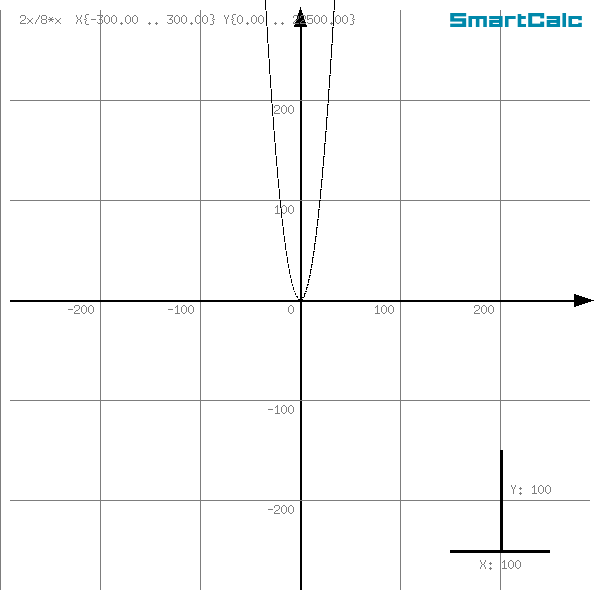
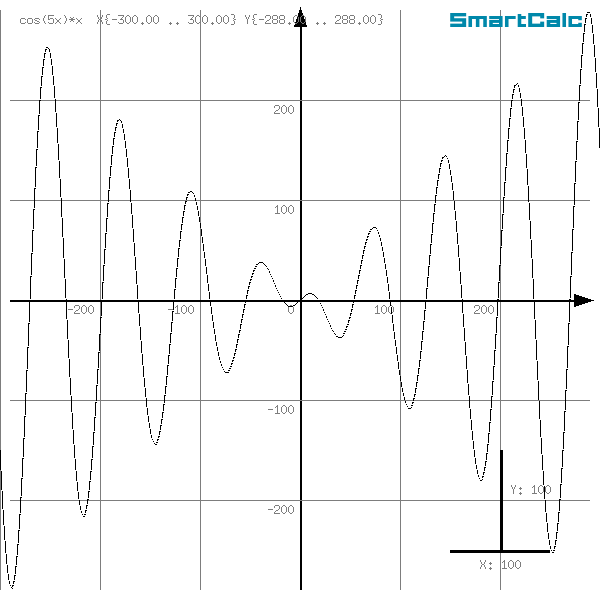
finish fix

diff --git a/src/internal/app/domains/constCfg.go b/src/internal/app/domains/constCfg.go
@@ -27,71 +27,24 @@ type Cfg struct {
 }
 
 var (
+	Os         = runtime.GOOS   // "windows", "darwin", "linux"
+	Arch       = runtime.GOARCH // "amd64", "386", "arm"
+	userDir, _ = os.Getwd()
+	testDir    = testDirFind(userDir)
 	// Path for config in linux system
-	Os              = runtime.GOOS   // "windows", "darwin", "linux"
-	Arch            = runtime.GOARCH // "amd64", "386", "arm"
-	userDir, _      = os.Getwd()
-	testDir         = testDirFind(userDir)
 	ConfigLinuxPath = []string{
 		"/etc/smartCalc/smartCalcLinux.cfg",
-		userDir + "/config/smartCalcLinuxIn.cfg",
 		testDir + "/config/smartCalcTest.cfg",
 	}
 
 	// Path for config in Mac system
-
 	ConfigMacPath = []string{
 		"/Applications/smartCalc.app/Contents/Resources/config/smartCalcMacOS.cfg",
-		userDir + "/config/smartCalcMacOSIn.cfg",
 		testDir + "/config/smartCalcTest.cfg",
 	}
 
 	Config *Cfg = InitConfig("") // Handling config path by type config name in quotes (but this way not recommend)
 )
-
-// // Create and write new config for Mac
-// func createNewMacConfig() *Cfg {
-// 	var c Cfg
-
-// 	c.WorkDir = userDir
-// 	c.AssetsDir = c.WorkDir + "/assets/"
-// 	c.LogDir = c.WorkDir + "/log/"
-// 	c.TempFileDir = c.WorkDir + "/tmp/"
-// 	c.TempGraph = "tempGraph.png"
-// 	c.HistoryFile = c.WorkDir + "/var/history.json"
-// 	c.XWindowGraph = 600
-// 	c.YWindowGraph = 600
-// 	c.DarkTheme = "no"
-// 	c.IconPath = c.AssetsDir + "Icon.png"
-// 	c.TypePath = c.AssetsDir + "protosans56.ttf"
-// 	c.Debug = false
-
-// 	fmt.Println("New config file created")
-
-// 	return &c
-// }
-
-// // Create and write new config for Linux
-// func createNewLinuxConfig() *Cfg {
-// 	var c Cfg
-
-// 	c.WorkDir = userDir
-// 	c.AssetsDir = c.WorkDir + "/assets/"
-// 	c.LogDir = c.WorkDir + "/log/"
-// 	c.TempFileDir = c.WorkDir + "/tmp/"
-// 	c.TempGraph = "tempGraph.png"
-// 	c.HistoryFile = c.WorkDir + "/var/history.json"
-// 	c.XWindowGraph = 600
-// 	c.YWindowGraph = 600
-// 	c.DarkTheme = "no"
-// 	c.IconPath = c.AssetsDir + "Icon.png"
-// 	c.TypePath = c.AssetsDir + "protosans56.ttf"
-// 	c.Debug = false
-
-// 	fmt.Println("New config file created")
-
-// 	return &c
-// }
 
 // Create and write new config file
 func createNewConfig() *Cfg {
@@ -147,7 +100,6 @@ func InitConfig(fileName string) *Cfg {
 				return &c
 			}
 		}
-		// return createNewLinuxConfig()
 		return createNewConfig()
 
 	case "darwin":
@@ -156,25 +108,11 @@ func InitConfig(fileName string) *Cfg {
 				return &c
 			}
 		}
-		// return createNewMacConfig()
 		return createNewConfig()
 	}
 
-	// return createNewLinuxConfig()
 	return createNewConfig()
 }
-
-// func (c *Cfg) GetWorkDir() string     { return c.WorkDir }
-// func (c *Cfg) GetAssetsDir() string   { return c.AssetsDir }
-// func (c *Cfg) GetLogDir() string      { return c.LogDir }
-// func (c *Cfg) GetTempFileDir() string { return c.TempFileDir }
-// func (c *Cfg) GetTempGraph() string   { return c.TempGraph }
-// func (c *Cfg) GetHistoryFile() string { return c.HistoryFile }
-// func (c *Cfg) GetXWindowGraph() int   { return int(c.XWindowGraph) }
-// func (c *Cfg) GetYWindowGraph() int   { return int(c.YWindowGraph) }
-// func (c *Cfg) GetDarkTheme() string   { return c.DarkTheme }
-// func (c *Cfg) GetIconPath() string    { return c.IconPath }
-// func (c *Cfg) GetTypePath() string    { return c.TypePath }
 
 func testDirFind(userDir string) string {
 	if len(userDir) > 20 {

diff --git a/src/internal/app/model/srvGraph_graphDraw.go b/src/internal/app/model/srvGraph_graphDraw.go
@@ -1,28 +1,56 @@
 package model
 
 import (
+	"fmt"
 	"image/color"
 	"math"
+	d "smartcalc/internal/app/domains"
 )
 
 // Draw graph line at the sCoordinates Array
 func (g *graphModel) graphDraw() {
-	var pixelOldY int
-	var sdvig int = g.graphGridFindValue(0, "Y")
-	var deltaY float64 = float64(g.config.YWindowGraph) / math.Abs(g.yFrom-g.yTo)
+
+	// Init variable
+	var (
+		prevErr   bool                                                               // exist old pixel flag
+		pixelOldY int                                                                // Y of old pixel
+		sdvig     int     = g.graphGridFindValue(0, "Y")                             // find place of ZeroLine
+		deltaY    float64 = float64(g.config.YWindowGraph) / math.Abs(g.yFrom-g.yTo) // quantity of pixel to 1 of Y
+	)
+
+	// draw graph with circle
 	for i, value := range g.gRM.pixelData {
+
+		// if pixel have err==true, skip drawing
 		if value.err {
+			prevErr = true
 			continue
 		}
+		d.DbgPrint(fmt.Sprint("GraphDraw:", i, value))
+		// find y coordinate for draw graph
 		y := int(float64(g.config.YWindowGraph) - (value.y * deltaY) - (float64(g.config.YWindowGraph) - float64(sdvig)))
-		g.gRM.graphImage.Set(i, y, color.Black)
-		if i != 0 {
-			if math.Abs(float64(pixelOldY-y)) >= 1.5 {
-				g.drawVLine(g.gRM.graphImage, 1, int(math.Abs(float64(pixelOldY-y)))-1, i-1, int(math.Min(float64(pixelOldY), float64(y))), color.Black)
-				pixelOldY = y
-			}
-		} else {
-			pixelOldY = y
+
+		// cut going beyond y
+		if y < 0 {
+			y = -1
+		} else if y >= int(g.config.YWindowGraph) {
+			y = int(g.config.YWindowGraph) + 1
 		}
+
+		// if y in windowgraph - draw pixel
+		if y > 0-10 && y < int(g.config.YWindowGraph)+10 {
+			g.gRM.graphImage.Set(i, y, color.Black)
+
+			// if nessesary, draw vertical line
+			if i != 0 {
+				if math.Abs(float64(pixelOldY-y)) >= 1.5 && !prevErr {
+					g.drawVLine(g.gRM.graphImage, 1, int(math.Abs(float64(pixelOldY-y)))-1, i-1, int(math.Min(float64(pixelOldY), float64(y))), color.Black)
+				}
+			}
+		}
+
+		// remember pixel for next vertical line
+		pixelOldY = y
+		prevErr = false
 	}
 }

diff --git a/src/internal/app/model/srvGraph_calculate.go b/src/internal/app/model/srvGraph_calculate.go
@@ -19,10 +19,15 @@ func (g *graphModel) graphPrepareString() bool {
 func (g *graphModel) calculateData() {
 	// find gap between pixels
 	var deltaPixel float64 = math.Abs(g.xFrom-g.xTo) / float64(g.config.XWindowGraph)
+	var xr float64
 
 	// filling pixels array with calculated data
 	for x := math.Min(g.xFrom, g.xTo); x <= math.Max(g.xFrom, g.xTo); x += deltaPixel {
-		g.gRM.pixelData = append(g.gRM.pixelData, g.equal.calculate(g.preparedEquation, x))
+		xr = x
+		if (x < 0.00001 && x > 0) || (x > 0-0.00001 && x < 0) {
+			xr = 0
+		}
+		g.gRM.pixelData = append(g.gRM.pixelData, g.equal.calculate(g.preparedEquation, xr))
 	}
 	// find MIN and MAX in Y
 	for _, val := range g.gRM.pixelData {

diff --git a/src/internal/app/model/srvEquation.go b/src/internal/app/model/srvEquation.go
@@ -63,6 +63,7 @@ func (e *equationModel) onlyCheck() (string, error) {
 
 // calculate prepared string
 func (e *equationModel) onlyCalculate(str string) (rez float64, err error) {
+	e.err = nil
 	if str != "" {
 		if rez, err = e.startCalculate(str); err != nil {
 			e.err = err
